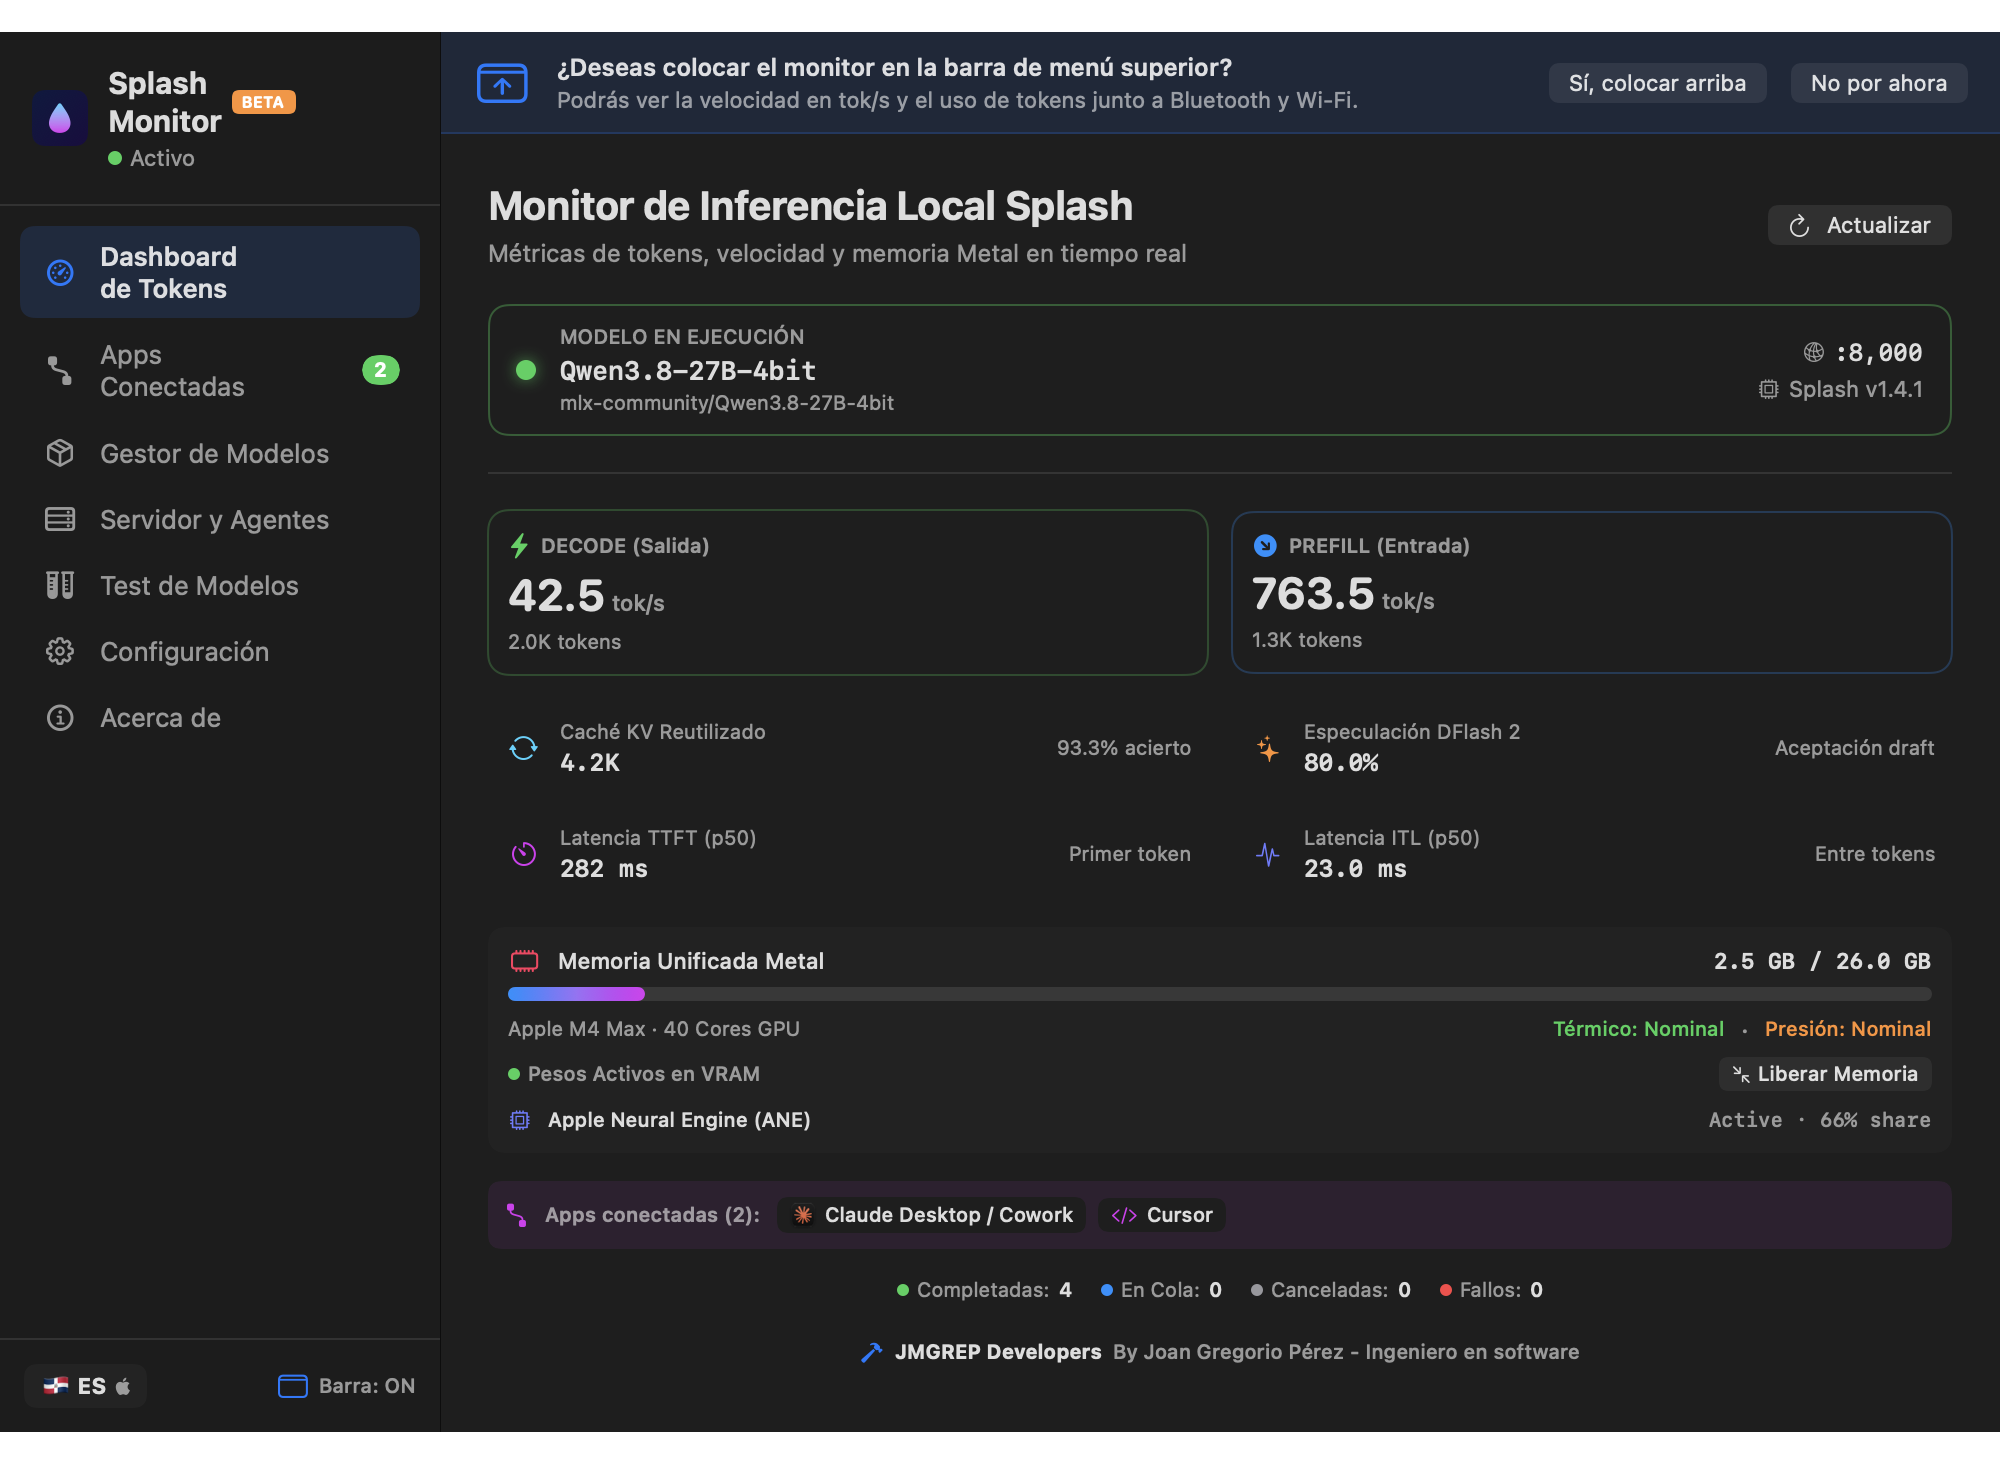
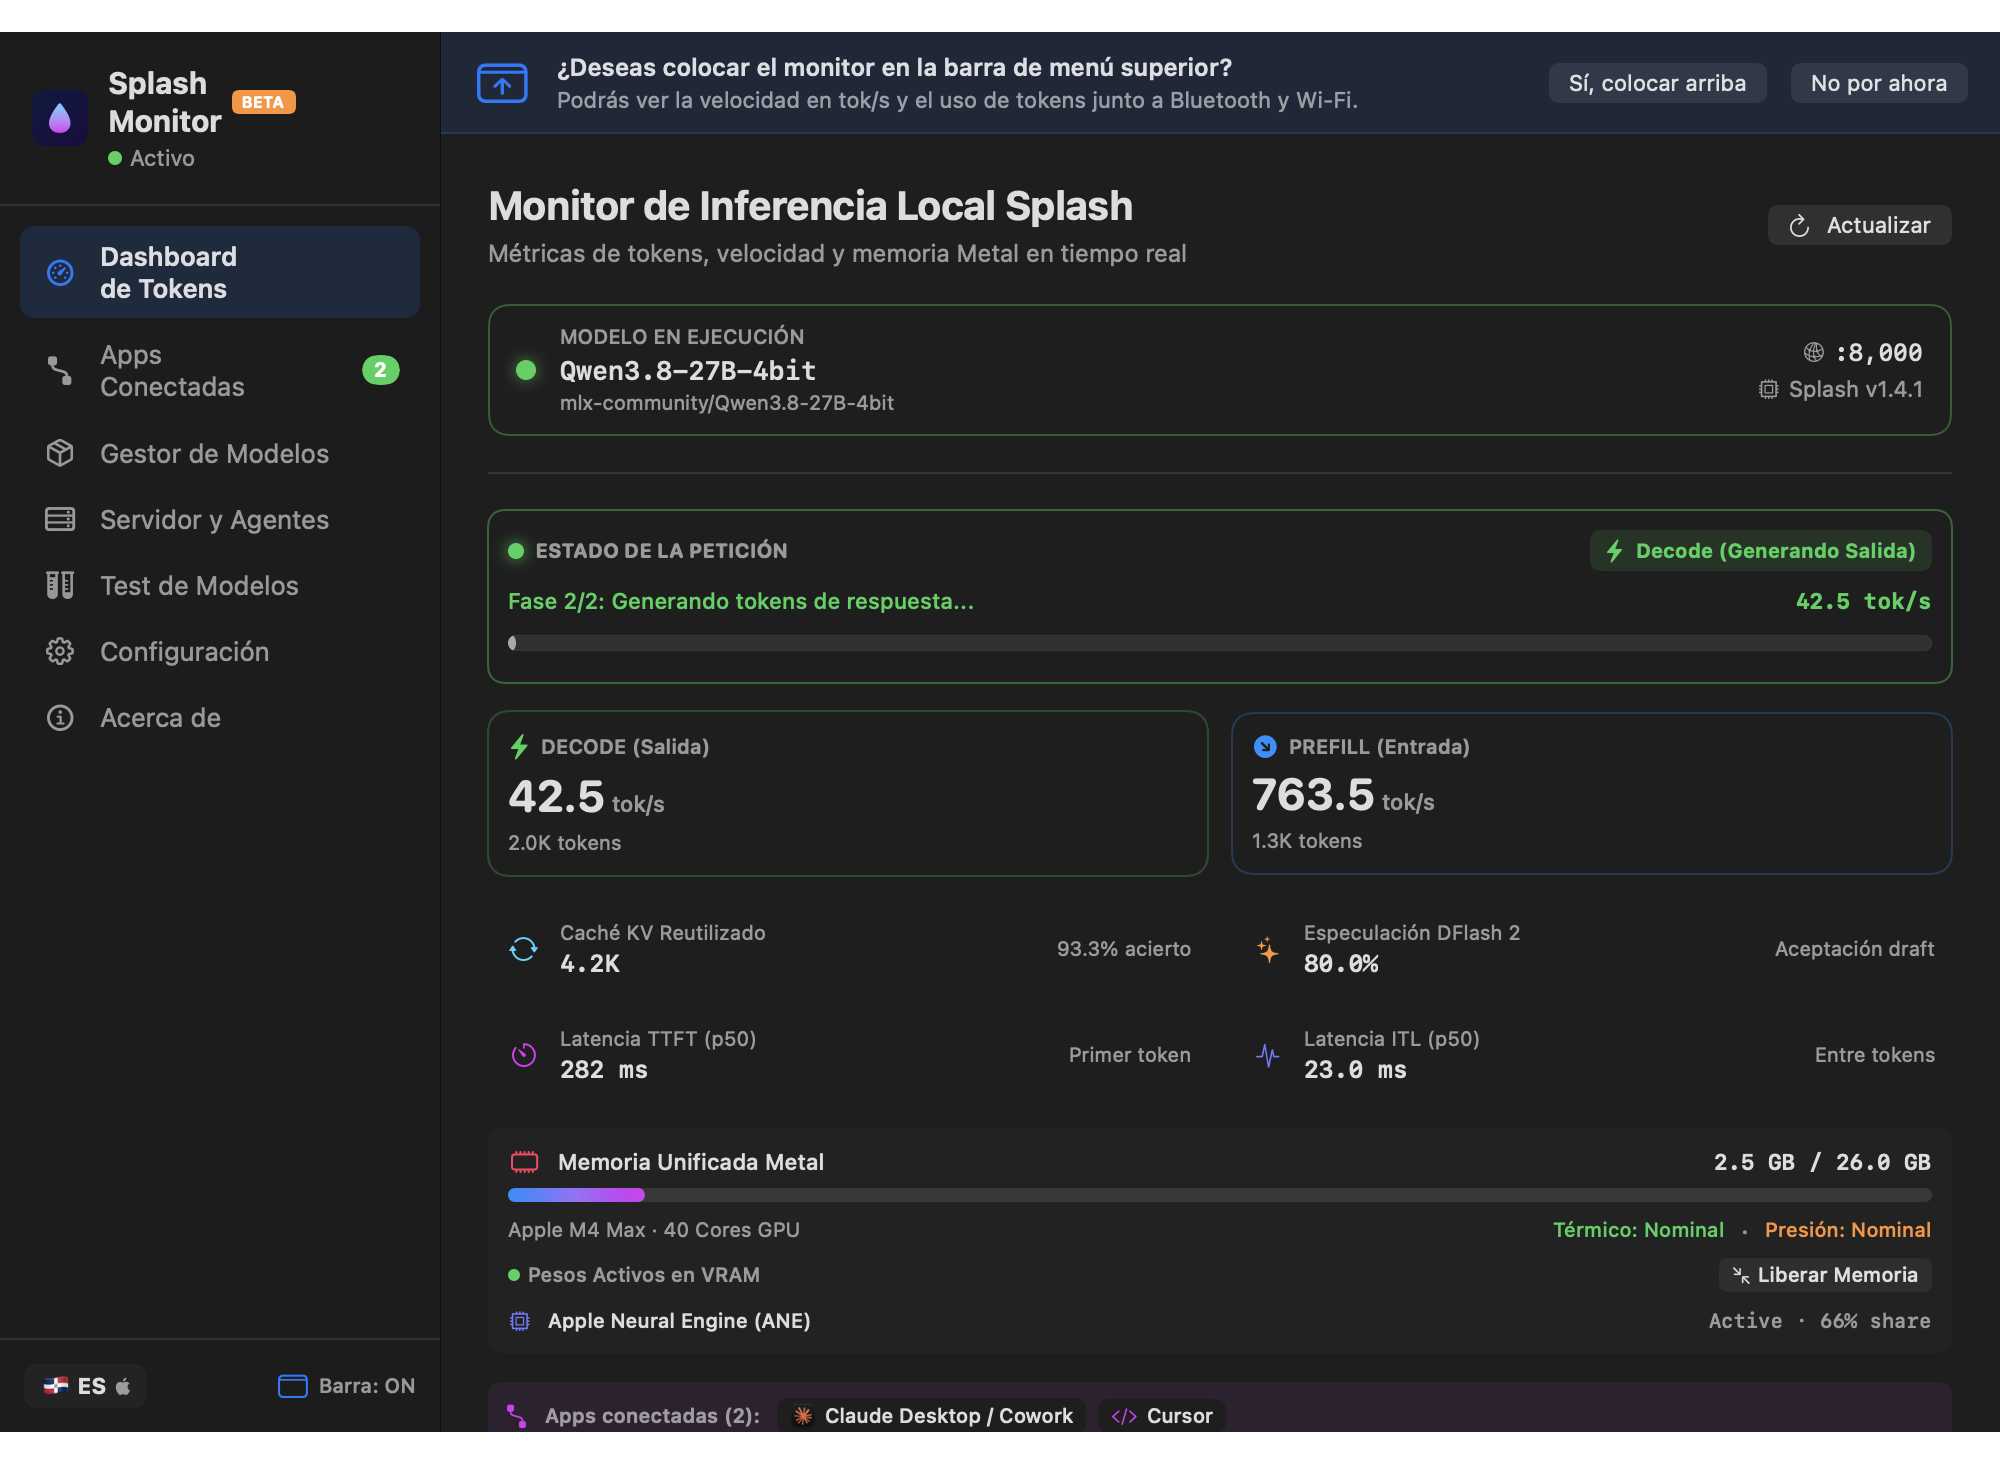
feat(dashboard): ciclo de vida de petición en curso e internacionalización completa (issues #5 y #6)
- Issue #6 (Per-request progress):
  * Agrega enum ActiveRequestStage (idle, queued, prefilling, decoding, offline) en SplashService.
  * Agrega widget interactivo de 'Ciclo de Petición en Curso' en TokenMetricsView.
  * Muestra badges de fase (PREFILL azul, DECODE verde, QUEUED naranja, IDLE gris) con indicador pulsante, velocidades en vivo y barras de progreso activas.
- Issue #5 (English localization):
  * Localización bilingüe completa para ModelIDValidator.rejectionReason().
  * Localización de opciones avanzadas (Idle, GDN FP32/BF16, Thinking Budget) en ServerControlView.
  * Localización de labels y avisos de reposo de memoria en AboutView y SplashService.

diff --git a/Sources/SplashMonitor/Views/TokenMetricsView.swift b/Sources/SplashMonitor/Views/TokenMetricsView.swift
@@ -10,6 +10,9 @@ public struct TokenMetricsView: View {
     
     public var body: some View {
         VStack(spacing: 14) {
+            // Active Request Lifecycle (Issue #6)
+            activeRequestCard
+            
             // Speed Hero Cards
             HStack(spacing: 12) {
                 MetricCard(
@@ -325,6 +328,117 @@ public struct TokenMetricsView: View {
             }
             .padding(.top, 4)
         }
+    }
+    
+    // MARK: - Active Request Progress Card (Issue #6)
+    @ViewBuilder
+    private var activeRequestCard: some View {
+        let stage = service.activeRequestStage
+        let isSpanish = loc.isSpanish
+        let stageColor: Color = {
+            switch stage {
+            case .prefilling: return .blue
+            case .decoding: return .green
+            case .queued: return .orange
+            case .idle: return .secondary
+            case .offline: return .gray
+            }
+        }()
+        
+        VStack(alignment: .leading, spacing: 8) {
+            // Header: Stage Title & Live badge
+            HStack(spacing: 8) {
+                HStack(spacing: 6) {
+                    Circle()
+                        .fill(stageColor)
+                        .frame(width: 8, height: 8)
+                        .shadow(color: stage == .prefilling || stage == .decoding ? stageColor.opacity(0.8) : .clear, radius: 4)
+                    
+                    Text(tr(es: "ESTADO DE LA PETICIÓN", en: "REQUEST LIFECYCLE"))
+                        .font(.system(size: 10, weight: .bold, design: .rounded))
+                        .foregroundColor(.secondary)
+                }
+                
+                Spacer()
+                
+                // Stage Badge
+                HStack(spacing: 5) {
+                    Image(systemName: stage.icon)
+                        .font(.system(size: 10, weight: .bold))
+                    Text(stage.title(isSpanish: isSpanish))
+                        .font(.system(size: 10, weight: .bold))
+                }
+                .foregroundColor(stageColor)
+                .padding(.horizontal, 7)
+                .padding(.vertical, 3)
+                .background(stageColor.opacity(0.12))
+                .cornerRadius(5)
+            }
+            
+            // Progress Bar / Live Status
+            if stage == .prefilling {
+                VStack(alignment: .leading, spacing: 4) {
+                    HStack {
+                        Text(tr(es: "Fase 1/2: Procesando prompt y evaluando KV Caché...", en: "Stage 1/2: Ingesting prompt & evaluating KV Cache..."))
+                            .font(.system(size: 11, weight: .medium))
+                            .foregroundColor(.blue)
+                        Spacer()
+                        Text("\(service.formattedPrefillSpeed) tok/s")
+                            .font(.system(size: 11, weight: .bold, design: .monospaced))
+                            .foregroundColor(.blue)
+                    }
+                    ProgressView()
+                        .progressViewStyle(.linear)
+                        .tint(.blue)
+                }
+            } else if stage == .decoding {
+                VStack(alignment: .leading, spacing: 4) {
+                    HStack {
+                        Text(tr(es: "Fase 2/2: Generando tokens de respuesta...", en: "Stage 2/2: Generating output response tokens..."))
+                            .font(.system(size: 11, weight: .medium))
+                            .foregroundColor(.green)
+                        Spacer()
+                        Text("\(service.formattedDecodeSpeed) tok/s")
+                            .font(.system(size: 11, weight: .bold, design: .monospaced))
+                            .foregroundColor(.green)
+                    }
+                    ProgressView()
+                        .progressViewStyle(.linear)
+                        .tint(.green)
+                }
+            } else if stage == .queued {
+                HStack {
+                    Text(tr(es: "Petición en cola esperando ranura de inferencia...", en: "Request queued waiting for inference slot..."))
+                        .font(.system(size: 11))
+                        .foregroundColor(.orange)
+                    Spacer()
+                    Text(tr(es: "En cola: \(service.status?.scheduler?.queued ?? 1)", en: "Queued: \(service.status?.scheduler?.queued ?? 1)"))
+                        .font(.system(size: 11, weight: .medium))
+                        .foregroundColor(.orange)
+                }
+            } else {
+                HStack {
+                    Text(service.isRunning
+                         ? tr(es: "Servidor disponible · Listo para atender consultas de clientes y agentes", en: "Server ready · Waiting for queries from connected apps & agents")
+                         : tr(es: "Servidor detenido · Inicia Splash para recibir peticiones", en: "Server stopped · Start Splash to accept requests"))
+                        .font(.system(size: 11))
+                        .foregroundColor(.secondary)
+                    Spacer()
+                    if let completed = service.status?.requests?.completed, completed > 0 {
+                        Text("\(completed) \(tr(es: "completadas", en: "completed"))")
+                            .font(.system(size: 10, weight: .medium))
+                            .foregroundColor(.secondary)
+                    }
+                }
+            }
+        }
+        .padding(10)
+        .background(Color(nsColor: .controlBackgroundColor))
+        .cornerRadius(8)
+        .overlay(
+            RoundedRectangle(cornerRadius: 8)
+                .stroke(stage == .prefilling || stage == .decoding ? stageColor.opacity(0.4) : Color.secondary.opacity(0.12), lineWidth: 1)
+        )
     }
 }
 

diff --git a/Sources/SplashMonitor/Services/ModelIDValidator.swift b/Sources/SplashMonitor/Services/ModelIDValidator.swift
@@ -89,26 +89,43 @@ public enum ModelIDValidator {
     }
 
     /// Motivo legible para mostrar al usuario en la interfaz.
-    public static func rejectionReason(_ raw: String) -> String? {
+    public static func rejectionReason(_ raw: String, isSpanish: Bool? = nil) -> String? {
         let value = raw.trimmingCharacters(in: .whitespacesAndNewlines)
-        if value.isEmpty { return "El identificador está vacío." }
+        let spanish = isSpanish ?? (UserDefaults.standard.string(forKey: "appLanguageMode") != "en")
+        if value.isEmpty {
+            return spanish ? "El identificador está vacío." : "The model identifier is empty."
+        }
         if isValid(value) { return nil }
-        if !value.contains("/") { return "Falta el separador: usa el formato propietario/modelo o propietario/modelo:variante." }
+        if !value.contains("/") {
+            return spanish
+                ? "Falta el separador: usa el formato propietario/modelo o propietario/modelo:variante."
+                : "Missing separator: use format owner/model or owner/model:variant."
+        }
         let segments = value.split(separator: "/", omittingEmptySubsequences: false)
         if segments.count != 2 {
-            return "El formato debe ser propietario/modelo[:variante] (un solo separador '/')."
+            return spanish
+                ? "El formato debe ser propietario/modelo[:variante] (un solo separador '/')."
+                : "Format must be owner/model[:variant] (exactly one '/' separator)."
         }
         if value.rangeOfCharacter(from: forbiddenCharacters) != nil {
-            return "Contiene caracteres no permitidos (espacios, comillas, ; | & $ ` \\ % ? # …)."
+            return spanish
+                ? "Contiene caracteres no permitidos (espacios, comillas, ; | & $ ` \\ % ? # …)."
+                : "Contains forbidden characters (spaces, quotes, ; | & $ ` \\ % ? # …)."
         }
         let repoSegment = String(segments[1])
         let repoParts = repoSegment.split(separator: ":", omittingEmptySubsequences: false)
         if repoParts.count > 2 {
-            return "Demasiados separadores de variante ':' (máximo uno permitido)."
+            return spanish
+                ? "Demasiados separadores de variante ':' (máximo uno permitido)."
+                : "Too many variant ':' separators (maximum one allowed)."
         }
         if repoParts.count == 2 && repoParts[1].isEmpty {
-            return "La variante tras ':' no puede estar vacía."
+            return spanish
+                ? "La variante tras ':' no puede estar vacía."
+                : "Variant following ':' cannot be empty."
         }
-        return "Solo se admiten letras, dígitos, punto, guion y guion bajo (y ':' para variantes)."
+        return spanish
+            ? "Solo se admiten letras, dígitos, punto, guion y guion bajo (y ':' para variantes)."
+            : "Only letters, digits, dots, hyphens, and underscores are allowed (and ':' for variants)."
     }
 }

diff --git a/Sources/SplashMonitor/Services/SplashService.swift b/Sources/SplashMonitor/Services/SplashService.swift
@@ -2496,6 +2496,58 @@ public class SplashService: ObservableObject {
         return "\(num)"
     }
     
+    // MARK: - Active Request Lifecycle (Issue #6)
+    
+    public enum ActiveRequestStage: String, CaseIterable {
+        case idle
+        case queued
+        case prefilling
+        case decoding
+        case offline
+        
+        public func title(isSpanish: Bool) -> String {
+            switch self {
+            case .idle: return isSpanish ? "En Espera (Listo)" : "Idle (Ready)"
+            case .queued: return isSpanish ? "En Cola de Espera" : "In Queue"
+            case .prefilling: return isSpanish ? "Prefill (Procesando Entrada)" : "Prefilling (Prompt Intake)"
+            case .decoding: return isSpanish ? "Decode (Generando Salida)" : "Decoding (Token Generation)"
+            case .offline: return isSpanish ? "Servidor Detenido" : "Server Stopped"
+            }
+        }
+        
+        public var icon: String {
+            switch self {
+            case .idle: return "checkmark.circle.fill"
+            case .queued: return "hourglass"
+            case .prefilling: return "arrow.down.forward.circle.fill"
+            case .decoding: return "bolt.fill"
+            case .offline: return "pause.circle"
+            }
+        }
+    }
+    
+    public var activeRequestStage: ActiveRequestStage {
+        guard isRunning else { return .offline }
+        let prefilling = status?.scheduler?.prefilling ?? 0
+        let decoding = status?.scheduler?.decoding ?? 0
+        let queued = status?.scheduler?.queued ?? 0
+        
+        if prefilling > 0 {
+            return .prefilling
+        } else if decoding > 0 {
+            return .decoding
+        } else if queued > 0 {
+            return .queued
+        } else {
+            return .idle
+        }
+    }
+    
+    public var isRequestActive: Bool {
+        let stage = activeRequestStage
+        return stage == .prefilling || stage == .decoding
+    }
+    
     // MARK: - Connected Apps / Client Detection
     
     public func scanConnectedClients() async {
@@ -2760,7 +2812,9 @@ extension SplashService: SystemMemoryPressureSentinelDelegate {
             let isBusy = (queued + prefilling + decoding) > 0
             if !isBusy {
                 print("⚠ [SplashService] Presión de memoria del sistema CRÍTICA detectada y servidor inactivo. Liberando memoria...")
-                self.memoryReliefNotice = "El motor Splash fue puesto en reposo para proteger la memoria del sistema macOS."
+                self.memoryReliefNotice = Localization.shared.isSpanish
+                    ? "El motor Splash fue puesto en reposo para proteger la memoria del sistema macOS."
+                    : "The Splash engine was put to sleep to protect macOS system memory."
                 NotificationService.shared.notifyMemoryPressureCritical()
                 self.stopServer()
             } else {

diff --git a/Sources/SplashMonitor/Views/ServerControlView.swift b/Sources/SplashMonitor/Views/ServerControlView.swift
@@ -658,7 +658,7 @@ public struct ServerControlView: View {
                             Image(systemName: "timer")
                                 .font(.system(size: 10))
                                 .foregroundColor(.cyan)
-                            Text("Reposo: \(service.idleRelease)")
+                            Text(tr(es: "Reposo: \(service.idleRelease)", en: "Idle: \(service.idleRelease)"))
                                 .font(.system(size: 10, design: .monospaced))
                                 .lineLimit(1)
                         }
@@ -793,7 +793,7 @@ public struct ServerControlView: View {
                         service.stateFormat = "fp32"
                     } label: {
                         HStack {
-                            Text("FP32 (Estándar, máxima fidelidad)")
+                            Text(tr(es: "FP32 (Estándar, máxima fidelidad)", en: "FP32 (Standard, maximum fidelity)"))
                             if service.stateFormat == "fp32" {
                                 Image(systemName: "checkmark")
                             }
@@ -803,7 +803,7 @@ public struct ServerControlView: View {
                         service.stateFormat = "bf16"
                     } label: {
                         HStack {
-                            Text("BF16 (-50% RAM en estados GDN)")
+                            Text(tr(es: "BF16 (-50% RAM en estados GDN)", en: "BF16 (-50% RAM in GDN states)"))
                             if service.stateFormat == "bf16" {
                                 Image(systemName: "checkmark")
                             }

diff --git a/Sources/SplashMonitor/Views/AboutView.swift b/Sources/SplashMonitor/Views/AboutView.swift
@@ -156,7 +156,7 @@ public struct AboutView: View {
                         NSWorkspace.shared.open(url)
                     }
                 } label: {
-                    Label("Modelos Hugging Face", systemImage: "cube")
+                    Label(tr(es: "Modelos Hugging Face", en: "Hugging Face Models"), systemImage: "cube")
                         .font(.system(size: 11))
                 }
                 .buttonStyle(.bordered)
